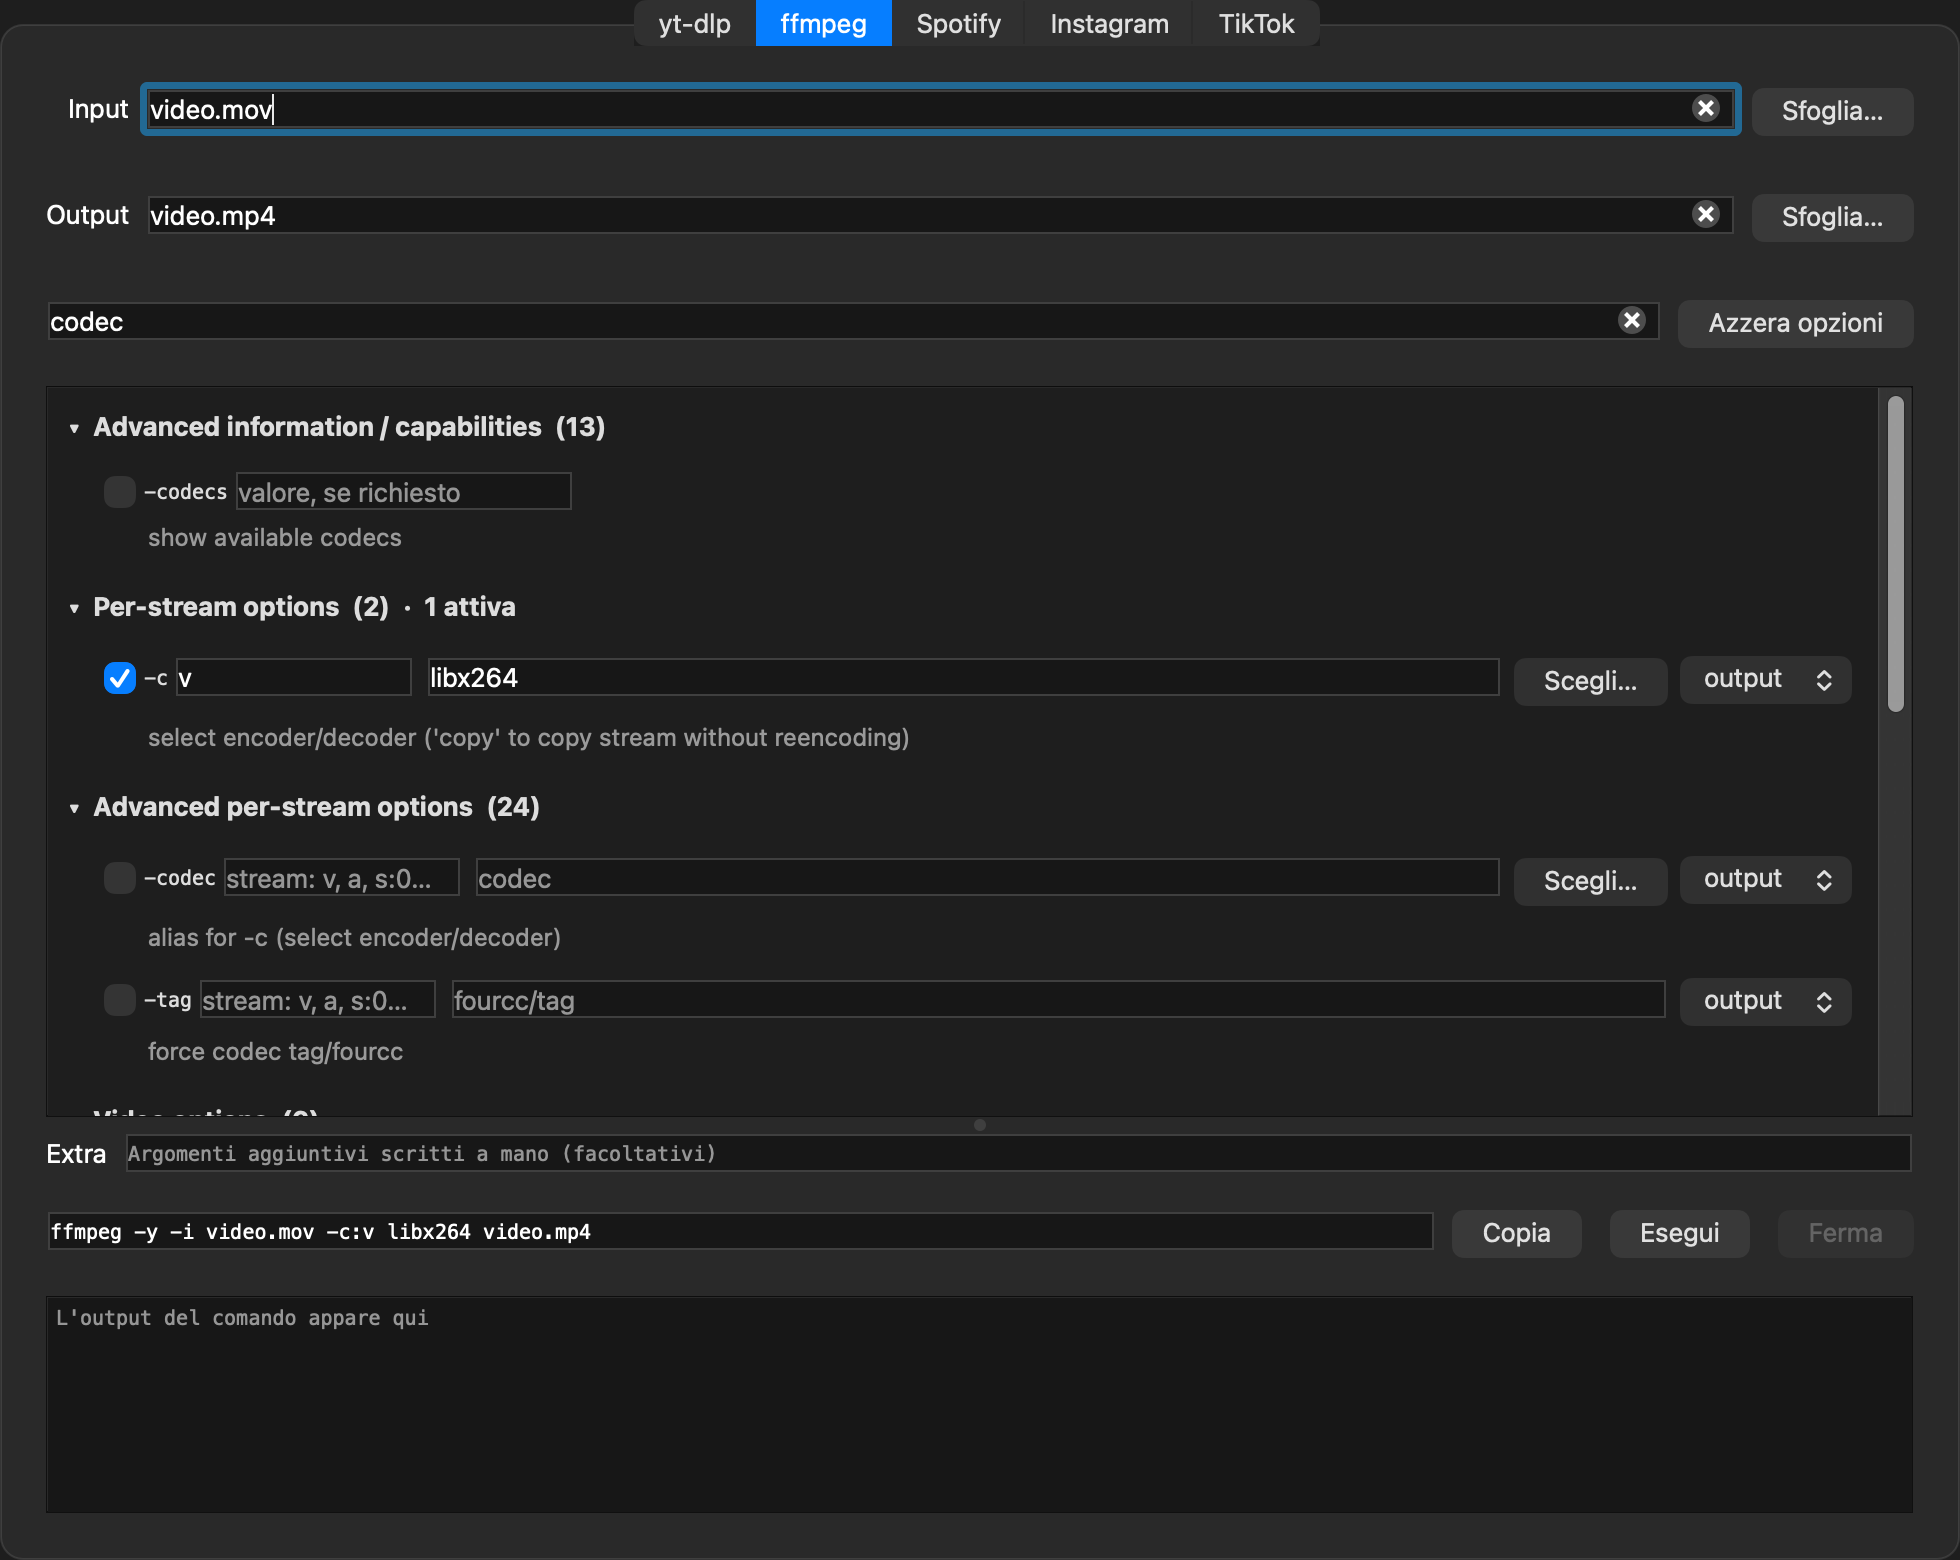
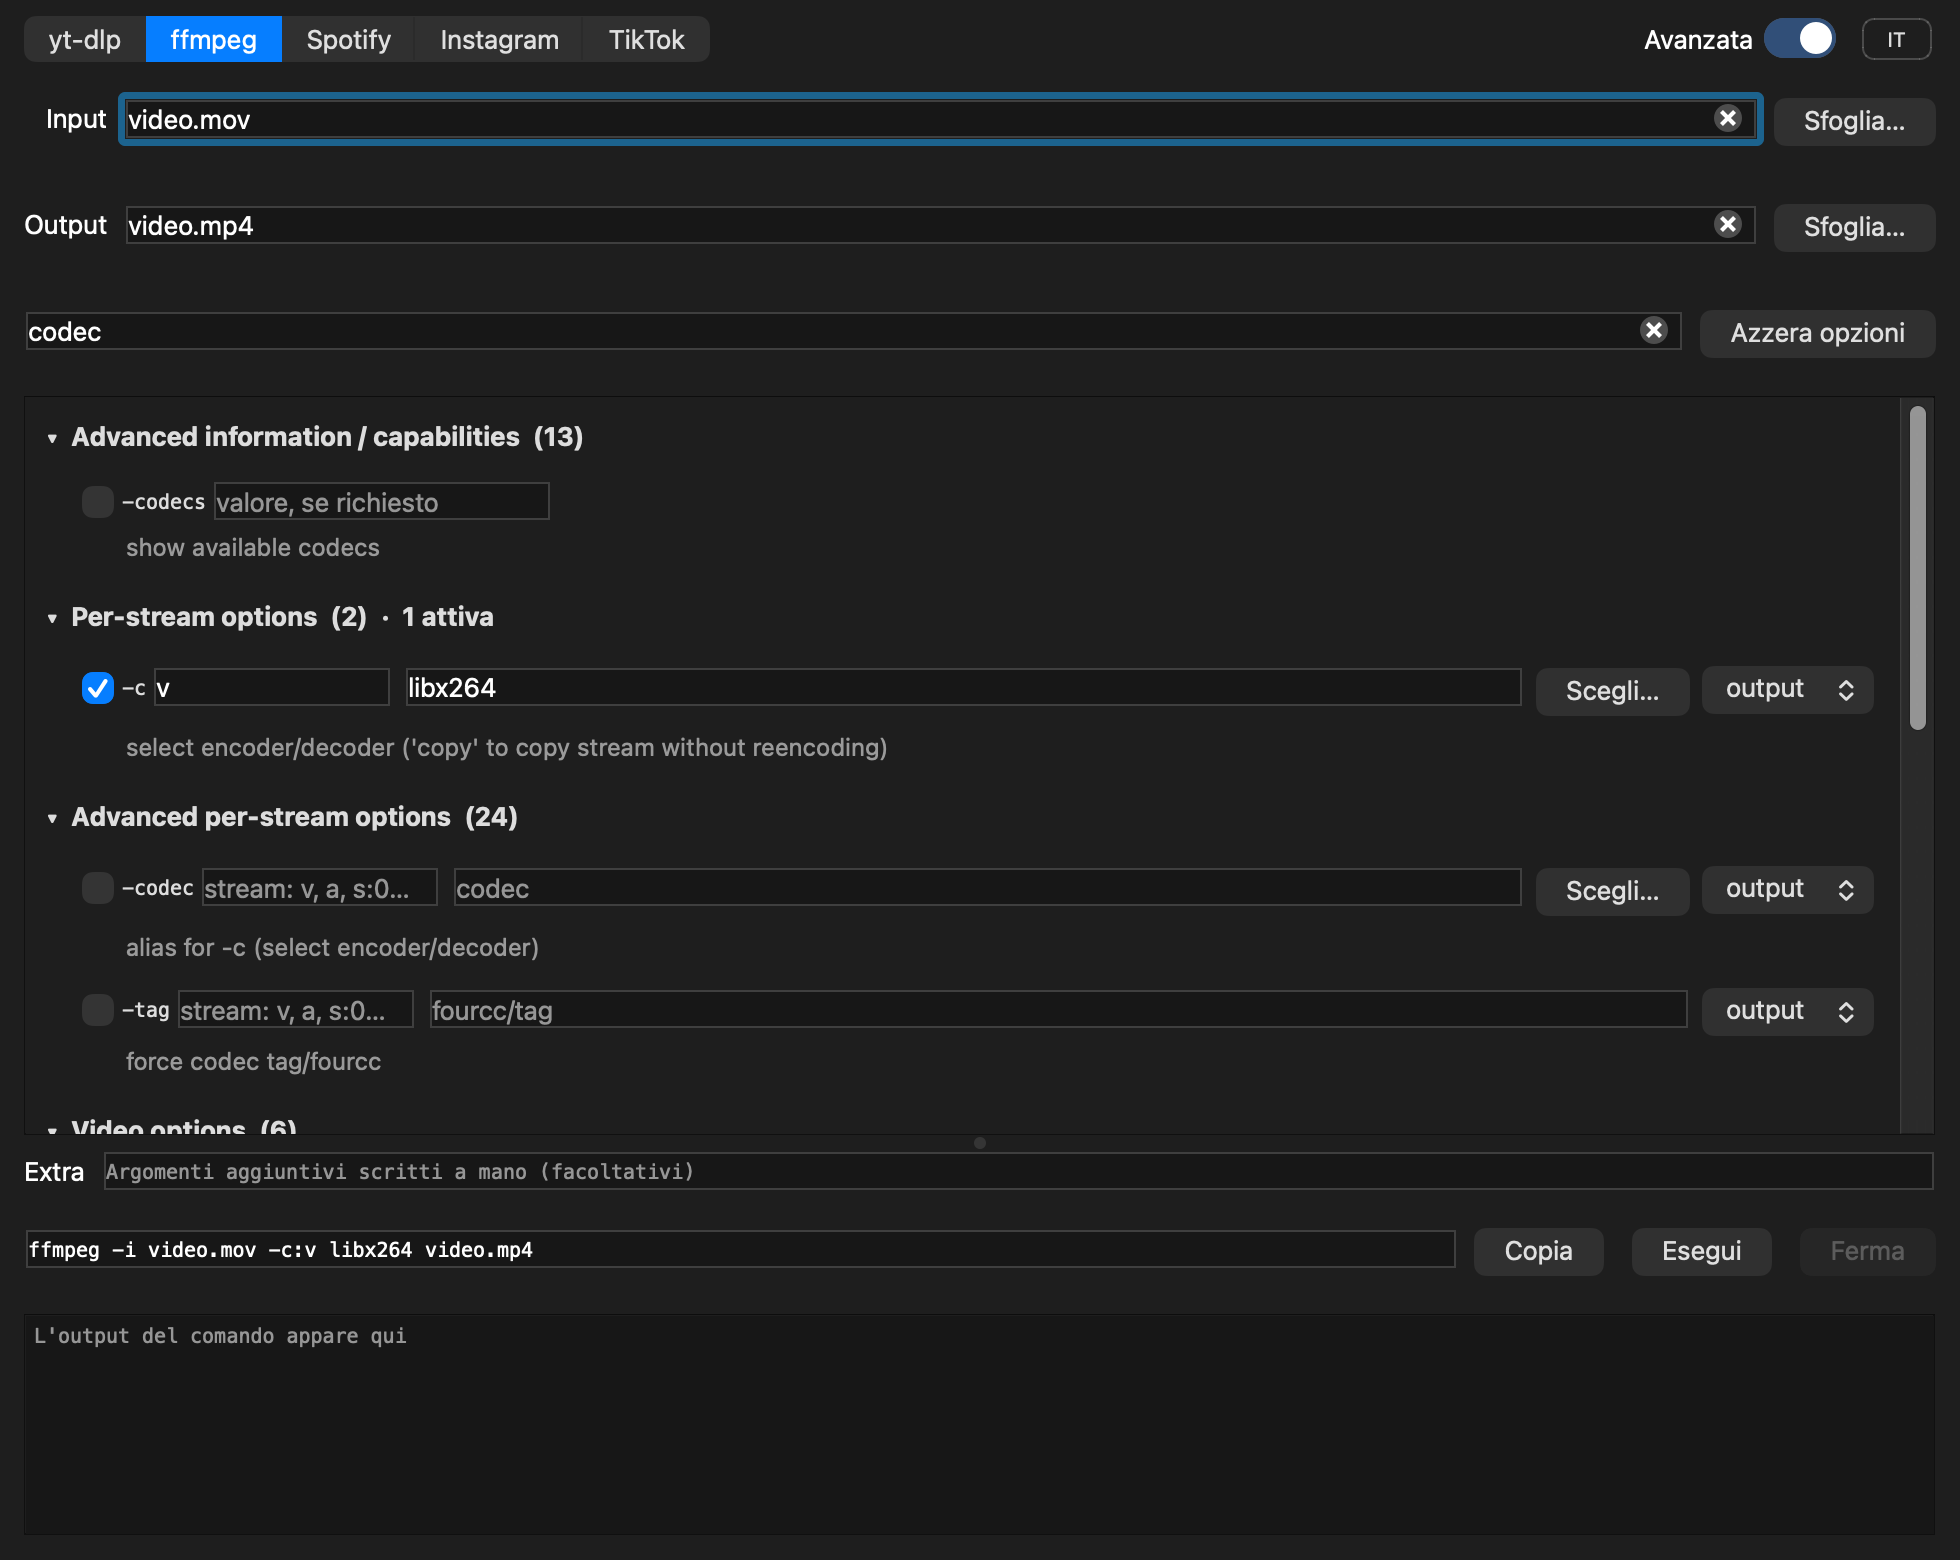
Refresh the README and its pictures for 0.5.0
Every picture is retaken with the current window (FFMPEG button,
language button); new ones show the long-list question, the update
bar and the English interface.

diff --git a/README.md b/README.md
@@ -2,7 +2,9 @@
 
 # DefDownloader
 
-Un'interfaccia grafica per scaricare e convertire. Si apre su una schermata semplice: scegli il sito, incolli i link, scegli formato e qualità e scarichi. L'interruttore **Avanzata** in alto a destra mostra invece tutte le opzioni dei programmi a riga di comando che l'app usa.
+*The app is also available in English (the **IT / EN** button in the top right corner). This page is in Italian.*
+
+Un'interfaccia grafica per scaricare e convertire, in italiano e in inglese. Si apre su una schermata semplice: scegli il sito, incolli i link, scegli formato e qualità e scarichi. In alto a destra ci sono il pulsante **FFMPEG**, per convertire e comprimere un file che hai già, e l'interruttore **Avanzata**, che mostra invece tutte le opzioni dei programmi a riga di comando che l'app usa.
 
 ![La schermata semplice: una lista di link con avanzamento e velocità](docs/semplice.png)
 
@@ -16,10 +18,16 @@ Un'interfaccia grafica per scaricare e convertire. Si apre su una schermata semp
 
 Per Spotify e per i profili Instagram la barra indica solo che il download è in corso: spotDL e instaloader non comunicano la percentuale.
 
+<p align="center"><img src="docs/lista-lunga.png" width="438" alt="L'avviso per un link con 130 elementi: solo i primi 50, annulla, tutti e 130"></p>
+
 ## Lingua e aggiornamenti
 
 - **Lingua**: italiano o inglese, dal pulsante **IT / EN** in alto a destra. Al primo avvio l'app segue la lingua del sistema (italiano su un sistema in italiano, altrimenti inglese). Cambiando lingua la finestra viene ricreata, quindi la lista si svuota.
 - **Aggiornamenti**: all'apertura l'app chiede a GitHub qual è l'ultima versione pubblicata; se è più nuova di quella installata compare una fascia con il pulsante "Scarica", che apre la pagina delle release. Nient'altro viene inviato o scaricato. Il controllo usa `curl`, già presente su macOS e su Windows 10 e successivi: senza rete o senza `curl` non compare nulla.
+
+![La fascia che avvisa di una versione nuova](docs/aggiornamento.png)
+
+![La schermata FFMPEG in inglese](docs/english.png)
 
 ## Schermata FFMPEG
 
@@ -99,6 +107,14 @@ Per creare il `.dmg` da distribuire, con Qt e gli strumenti inclusi:
 ./fetch-tools-mac.sh
 ./package-mac.sh
 ```
+
+I testi dell'interfaccia sono scritti in italiano nel codice; l'inglese è in [translations/DefDownloader_en.ts](translations/DefDownloader_en.ts) e finisce dentro l'eseguibile. Dopo aver cambiato o aggiunto un testo:
+
+```bash
+cmake --build build --target update_translations
+```
+
+poi si traducono le voci nuove del file (quelle lasciate vuote restano in italiano). `--lang en` o `--lang it` avvia l'app in una lingua senza cambiare quella salvata.
 
 Windows: la build è automatica, vedi [.github/workflows/windows.yml](.github/workflows/windows.yml). Parte a ogni push su `main` e, sui tag `v*`, allega lo zip alla release.
 
